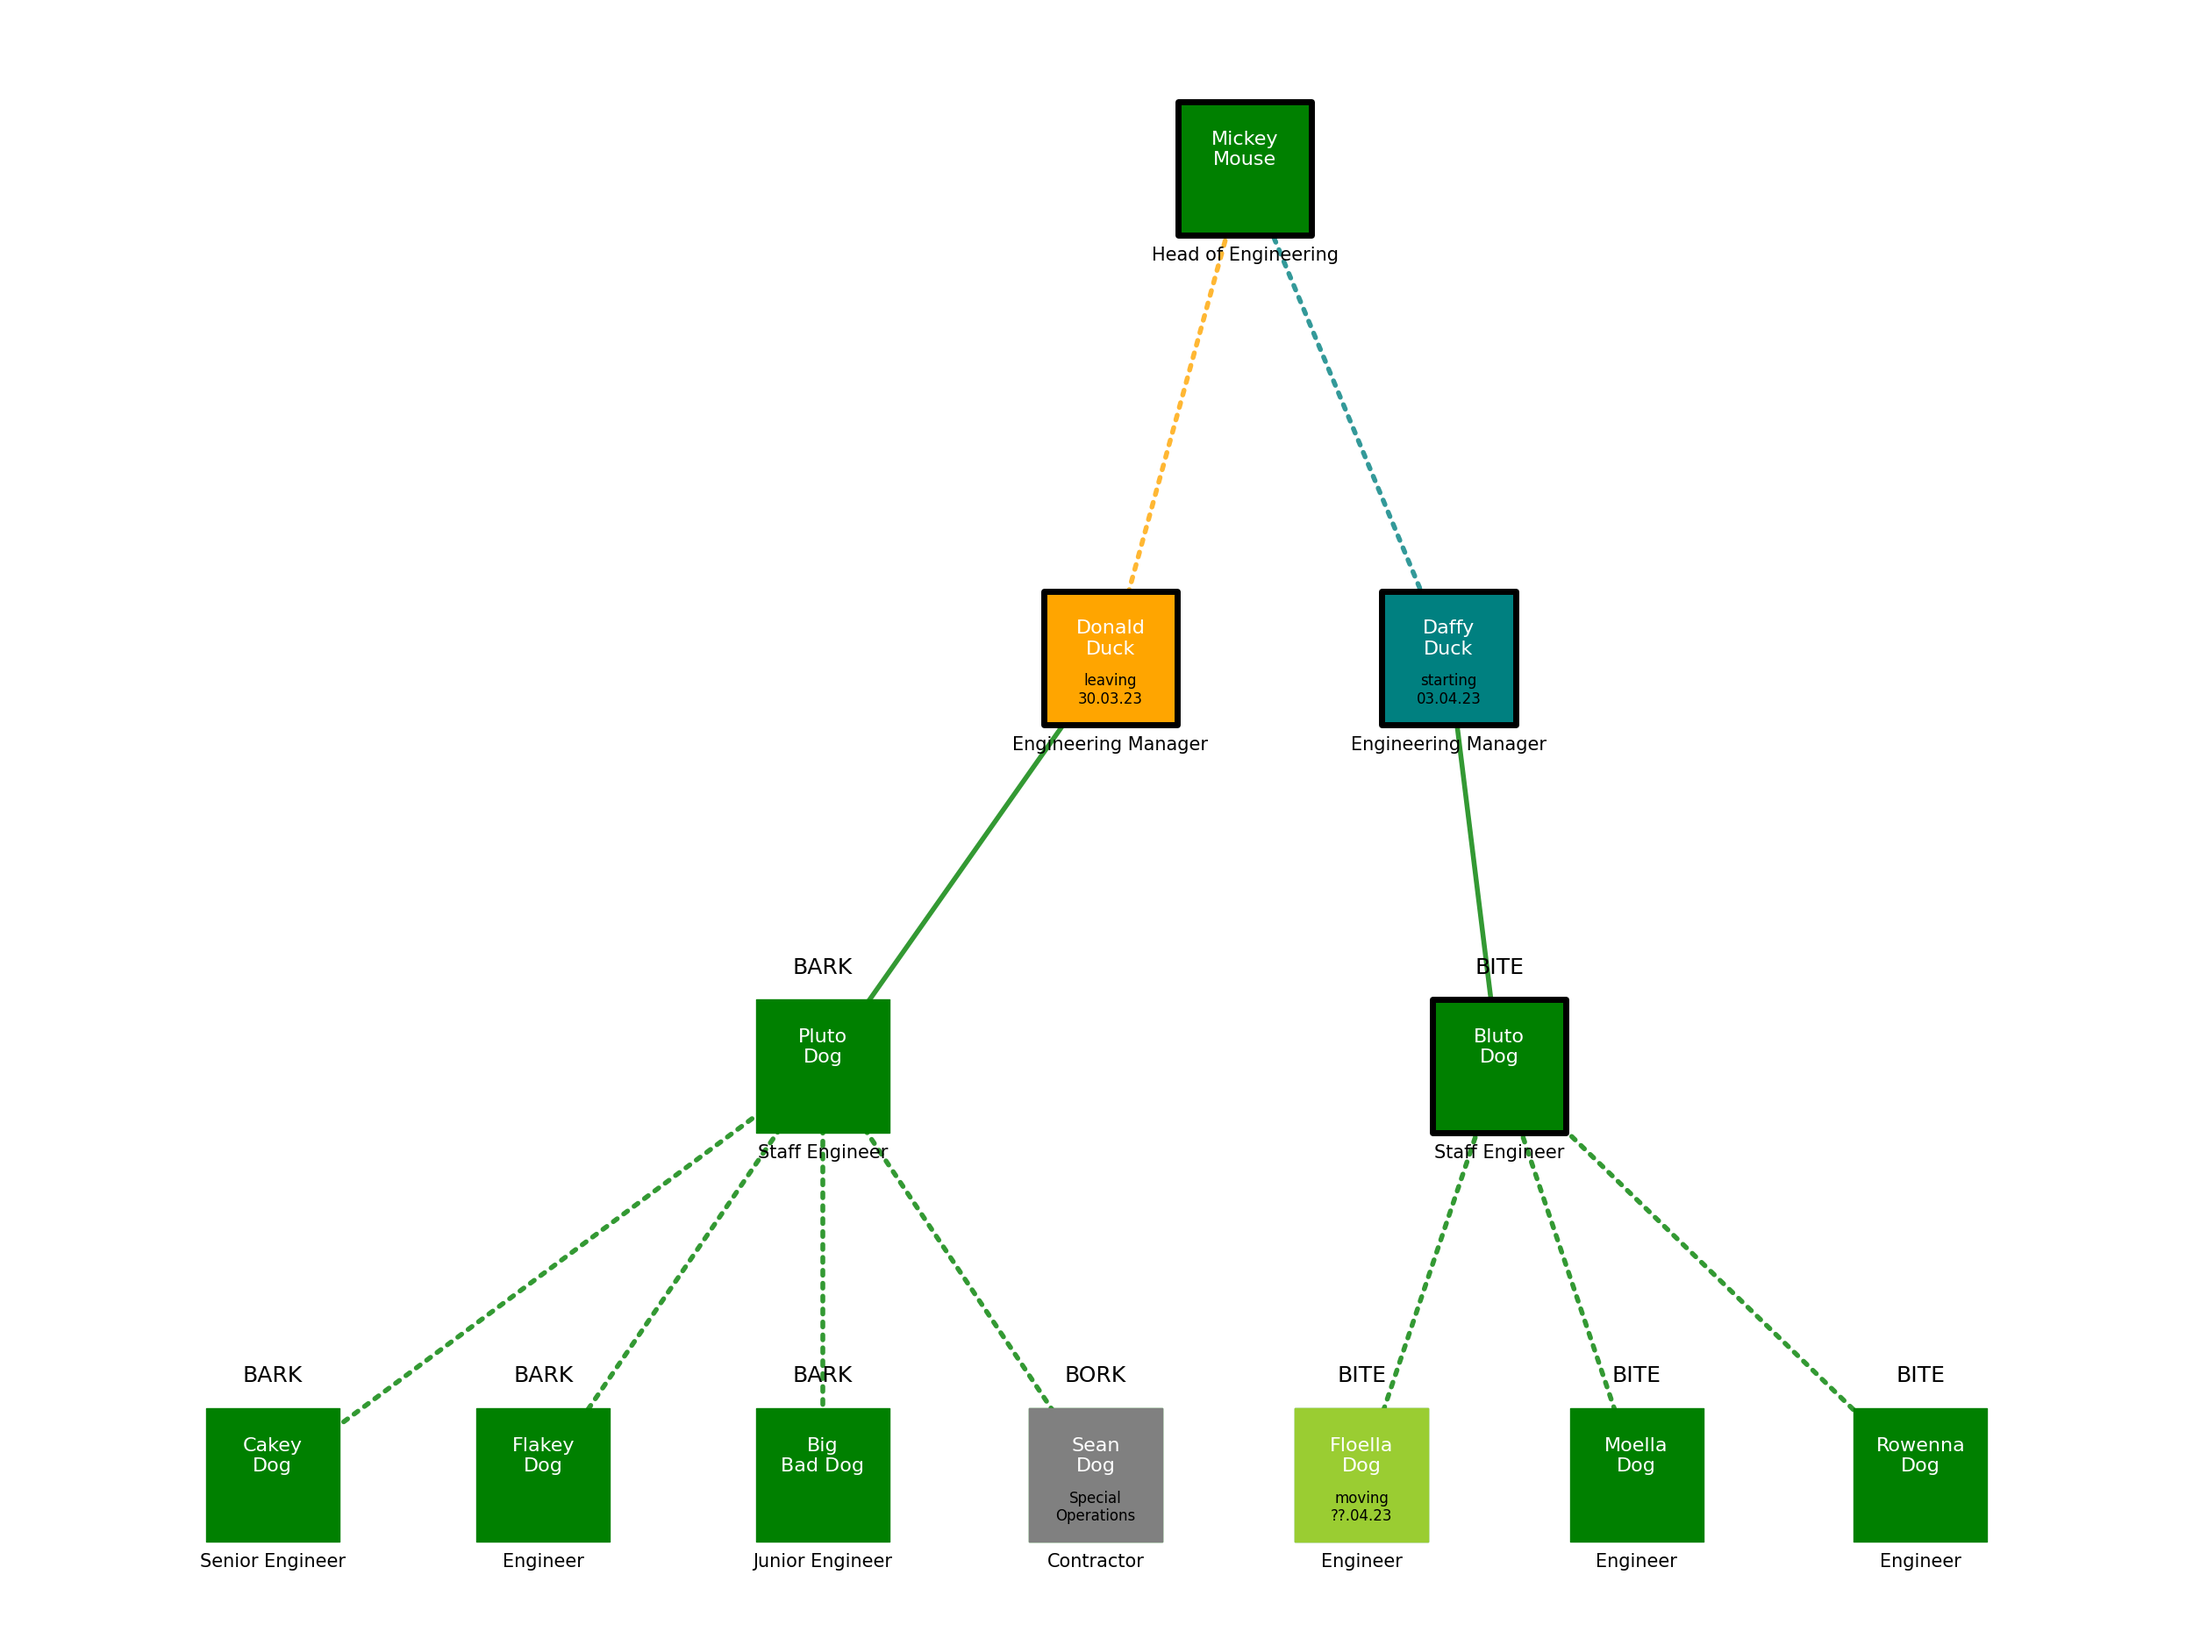
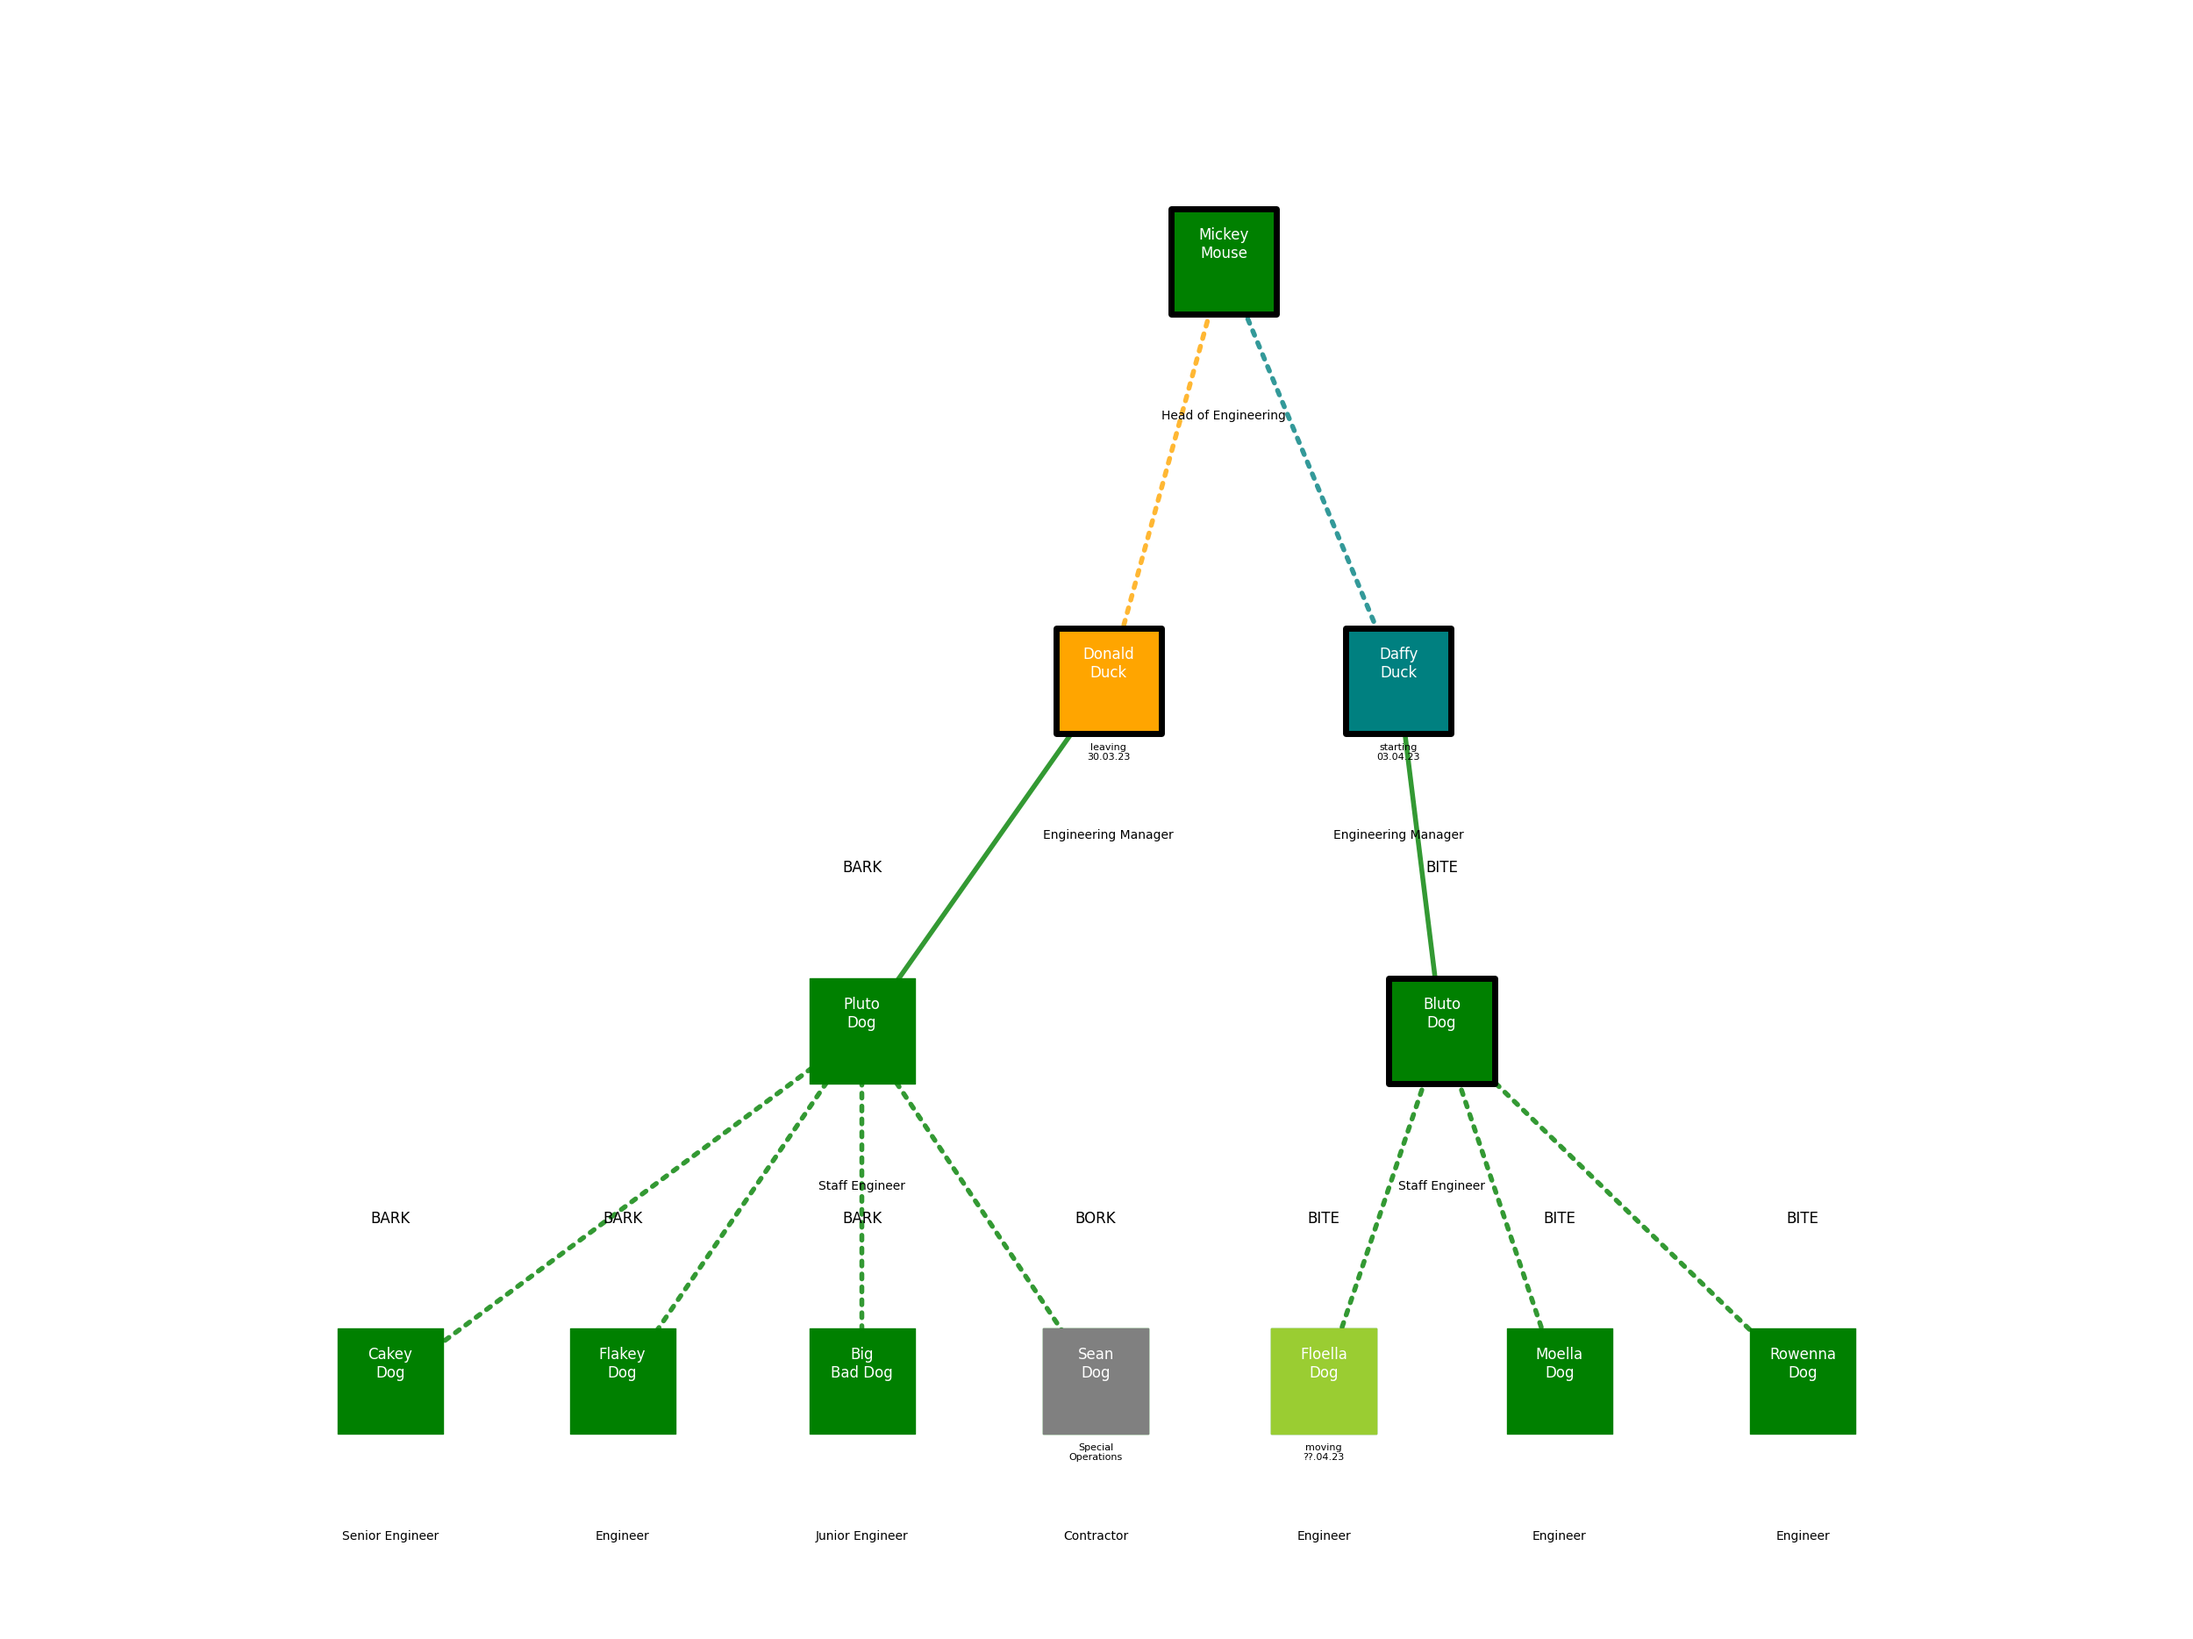
Updated to fix side effects in test code

diff --git a/tests/test_organogram.py b/tests/test_organogram.py
@@ -80,14 +80,14 @@ yaml_data_zero = {
 
 # ---- TESTS -----
 
-def test_load_yaml_file(diagrammer):
+def test_load_yaml_file(diagrammer: OrganisationDiagrammer):
     yaml_file = "example.yaml"
     with open(yaml_file, 'w') as f:
         f.write(yaml.dump(yaml_data))
     loaded_data = diagrammer.load_yaml_file(yaml_file)
     assert loaded_data == yaml_data
 
-def test_create_graph_from_yaml(diagrammer):
+def test_create_graph_from_yaml(diagrammer: OrganisationDiagrammer):
     graph = diagrammer.create_graph_from_yaml(yaml_data)
     
     assert len(graph.nodes) == 2
@@ -96,7 +96,7 @@ def test_create_graph_from_yaml(diagrammer):
     assert graph.has_node(proc_field("B"))
     assert graph.has_edge(proc_field("A"), proc_field("B"))
 
-def test_create_valid_teams_and_status(diagrammer):
+def test_create_valid_teams_and_status(diagrammer: OrganisationDiagrammer):
     validTeams = ['Team A', 'Team B']
     validStatus = ['perm']
     diagrammer.set_valid_teams(validTeams)
@@ -104,7 +104,7 @@ def test_create_valid_teams_and_status(diagrammer):
     assert(diagrammer.valid_teams == validTeams)
     assert(diagrammer.valid_status == validStatus)
            
-def test_create_graph_from_yaml_validate(diagrammer):
+def test_create_graph_from_yaml_validate(diagrammer: OrganisationDiagrammer):
     diagrammer.set_valid_teams(['Team A', 'Team B'])
     diagrammer.set_valid_status(['perm'])
     graph = diagrammer.create_graph_from_yaml(yaml_data, validate=True)
@@ -115,7 +115,7 @@ def test_create_graph_from_yaml_validate(diagrammer):
     assert graph.has_node(proc_field("B"))
     assert graph.has_edge(proc_field("A"), proc_field("B"))
 
-def test_create_dotfile_from_graph(diagrammer):
+def test_create_dotfile_from_graph(diagrammer: OrganisationDiagrammer):
     target = "test_output.dot"
     graph = diagrammer.create_graph_from_yaml(yaml_data)
     dotfile = diagrammer.create_dotfile_from_graph(graph, dot_file=target)
@@ -125,7 +125,7 @@ def test_create_dotfile_from_graph(diagrammer):
     assert isinstance(size, int)
     assert size > 0
 
-def test_create_graphviz_layout_from_graph(diagrammer):
+def test_create_graphviz_layout_from_graph(diagrammer: OrganisationDiagrammer):
     target = "test_output.png"
     graph = diagrammer.create_graph_from_yaml(yaml_data)
     layout_graph = diagrammer.create_graphviz_layout_from_graph(graph, font_size=12, cstyle='angle', margin=0.1, offset=2, node_size=10000, image_file=target)
@@ -139,34 +139,34 @@ def test_create_graphviz_layout_from_graph(diagrammer):
     assert isinstance(size, int)
     assert size > 0
 
-def test_load_yaml_file_zero(diagrammer):
+def test_load_yaml_file_zero(diagrammer: OrganisationDiagrammer):
     yaml_file = "example_zero.yaml"
     with open(yaml_file, 'w') as f:
         f.write(yaml.dump(yaml_data_zero))
     loaded_data = diagrammer.load_yaml_file(yaml_file)
     assert loaded_data == yaml_data_zero
     
-def test_load_yaml_file_none(diagrammer):
+def test_load_yaml_file_none(diagrammer: OrganisationDiagrammer):
     yaml_file = "example_none.yaml"
     with open(yaml_file, 'w') as f:
         f.write(yaml.dump(yaml_data_none))
     loaded_data = diagrammer.load_yaml_file(yaml_file)
     assert loaded_data == yaml_data_none
 
-def test_create_graph_from_yaml_none(diagrammer):
+def test_create_graph_from_yaml_none(diagrammer: OrganisationDiagrammer):
     graph = diagrammer.create_graph_from_yaml(yaml_data_none)
     
     assert len(graph.nodes) == 0
     assert len(graph.edges) == 0
 
-def test_load_yaml_file_mini(diagrammer):
+def test_load_yaml_file_mini(diagrammer: OrganisationDiagrammer):
     yaml_file = "example_mini.yaml"
     with open(yaml_file, 'w') as f:
         f.write(yaml.dump(yaml_data_mini))
     loaded_data = diagrammer.load_yaml_file(yaml_file)
     assert loaded_data == yaml_data_mini
 
-def test_create_graph_from_yaml_mini(diagrammer):
+def test_create_graph_from_yaml_mini(diagrammer: OrganisationDiagrammer):
     graph = diagrammer.create_graph_from_yaml(yaml_data_mini)
     
     assert len(graph.nodes) == 2
@@ -175,7 +175,7 @@ def test_create_graph_from_yaml_mini(diagrammer):
     assert graph.has_node(proc_field("B"))
     assert graph.has_edge(proc_field("A"), proc_field("B"))
 
-def test_create_graph_from_yaml_mini_validate(diagrammer):
+def test_create_graph_from_yaml_mini_validate(diagrammer: OrganisationDiagrammer):
     diagrammer.set_valid_teams(['Team A', 'Team B'])
     diagrammer.set_valid_status(['perm'])
     graph = diagrammer.create_graph_from_yaml(yaml_data_mini, validate=True)
@@ -185,8 +185,22 @@ def test_create_graph_from_yaml_mini_validate(diagrammer):
     assert graph.has_node(proc_field("A"))
     assert graph.has_node(proc_field("B"))
     assert graph.has_edge(proc_field("A"), proc_field("B"))
-    
+
 def test_main_no_args():
+    arguments = {
+         '--fontsize': [],
+         '--help': 0,
+         '--margin': [],
+         '--nodesize': [],
+         '--offset': [],
+         '--source': ['test.yaml'],
+         '--style': [],
+         '--verbose': 0,
+         '--version': 0,
+    }
+    main(arguments, open_image=False)
+
+def test_main_verbose():
     arguments = {
          '--fontsize': [],
          '--help': 0,
@@ -199,3 +213,18 @@ def test_main_no_args():
          '--version': 0,
     }
     main(arguments, open_image=False)
+
+def test_main_some_args():
+    arguments = {
+         '--fontsize': [12],
+         '--help': 0,
+         '--margin': [0.2],
+         '--nodesize': [],
+         '--offset': [16],
+         '--source': ['test.yaml'],
+         '--style': ['arc3'],
+         '--verbose': 1,
+         '--version': 0,
+    }
+    main(arguments, open_image=False)
+

diff --git a/organogram.py b/organogram.py
@@ -257,7 +257,7 @@ class OrganisationDiagrammer(object):
         self._validStatus = status
 
     @property
-    def valid_elations(self) -> List:
+    def valid_relations(self) -> List:
         """
         Return valid relations
 
@@ -660,6 +660,7 @@ class OrganisationDiagrammer(object):
         # Note the args here are inputs to dot.  Type dot -h to see options
         # See: https://renenyffenegger.ch/notes/tools/Graphviz/examples/organization-chart for an org chart example
         # See: https://stackoverflow.com/questions/57512155/how-to-draw-a-tree-more-beautifully-in-networkx for circo reference
+        plt.clf()
         args = "-Gnodesep=3 -Granksep=0 -Gpad=0.1 -Grankdir=TB"
         pos = nx.nx_agraph.graphviz_layout(g, prog="dot", root=None, args=args)
 
@@ -677,7 +678,10 @@ class OrganisationDiagrammer(object):
         plSize = params.get_size_inches()
         scale = 5
         params.set_size_inches((plSize[0] * scale, plSize[1] * scale))
+        logger.info(f'plSize = {plSize}, setting image size to {plSize[0] * scale} by {plSize[1] * scale}')
         plt.savefig(image_file, bbox_inches="tight")
+        # We need to reset the size of the figure to the original size
+        params.set_size_inches((plSize[0], plSize[1]))
         return g
 
     def create_dotfile_from_graph(self, g: nx.DiGraph, dot_file: str) -> str:
@@ -751,7 +755,7 @@ def main(arguments: Dict, open_image: bool=True):
         logger.info(f"node_size = {node_size}")
     if arguments.get("--fontsize"):
         font_size = arguments.get("--fontsize")[0]
-        font_size = int(setFloatValue(font_size, DEFAULT_NODE_SIZE))
+        font_size = int(setFloatValue(font_size, DEFAULT_FONT_SIZE))
         logger.info(f"fontsize = {font_size}")
     if arguments.get("--offset"):
         offset = arguments.get("--offset")[0]
@@ -773,16 +777,16 @@ def main(arguments: Dict, open_image: bool=True):
         t0 = time.time()
         org = OrganisationDiagrammer(margin=margin, node_size=node_size)
         data = org.load_yaml_file(source)
-        g = org.create_graph_from_yaml(data)
+        graph = org.create_graph_from_yaml(data)
         target = source[:-5] + ".dot"
-        dotfile = org.create_dotfile_from_graph(g, target)
+        dotfile = org.create_dotfile_from_graph(graph, target)
         print(
             f"Successfully created dot file {dotfile} of size"
             f" {get_file_size(dotfile)}kB"
         )
         image = source[:-5] + ".png"
         org.create_graphviz_layout_from_graph(
-            g,
+            graph,
             margin=margin,
             cstyle=cstyle,
             node_size=node_size,
@@ -830,4 +834,8 @@ if __name__ == "__main__":
         *tuple([PROGRAM] * 7)
     )
     arguments = docopt.docopt(usage)
+    main(arguments)
+    print('-----------')
+    main(arguments)
+    print('-----------')
     main(arguments)
